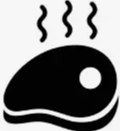
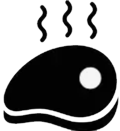
update week 6
aan allerei dingen gewerkt

diff --git a/Week 6/sketch.js b/Week 6/sketch.js
@@ -29,6 +29,9 @@ let showTennisBallImage = false;
 let tennisImageX = [];
 let tennisImageY = [];
 
+let balloonPetX = 600;
+let balloonPetY = 150;
+
 function setup() {
   createCanvas(1255, 550);
 
@@ -114,7 +117,7 @@ function draw() {
 
   // tamagotchi zelf
   strokeWeight(2)
-  balloonpet(100, -125, 205, 239, 250);
+  balloonpet(balloonPetX, balloonPetY, 205, 239, 250);
   balloonmouth()
 
   if (showFoodImage) {
@@ -124,11 +127,12 @@ function draw() {
       foodImageY = mouseY - 25;
     }
     // zorgt ervoor dat zodra het voedsel in aanraking komt met de tamagotchi dat het voedsel verdwijnt
-    let distanceToPet = dist(600, 175, mouseX, mouseY);
+    let distanceToPet = dist(balloonPetX, balloonPetY, mouseX, mouseY);
     if (distanceToPet < 40) {
       showFoodImage = false;
       // de honger bar gaat weer om hoog als het voedsel verdwijnt
       statsWaardes[3] = statsWaardes[3] + 25
+      statsWaardes[1] = statsWaardes[1] + 50
     }
     // foto van voedsel 
     image(aardbeifoto, foodImageX, foodImageY, 50, 50);
@@ -136,27 +140,47 @@ function draw() {
 
   if (showSpongeImage) {
     image(spongebobfoto, mouseX - 35, mouseY - 55, 75, 125);
-    let distanceToPet = dist(600, 175, mouseX, mouseY);
+    let distanceToPet = dist(balloonPetX, balloonPetY, mouseX, mouseY);
     if (distanceToPet < 40) {
       statsWaardes[0] = statsWaardes[0] + 1
     }
-    if (statsWaardes[0] > 100) 
+    if (statsWaardes[0] > 100)
       showSpongeImage = false
   }
-  if (showSleepSpeechBubbleImage){
-    image(sleepspeechbubblefoto,200,-50,550,400);
-    statsWaardes[1] = statsWaardes[1]+1
-    if(statsWaardes[1] >100){
+  if (showSleepSpeechBubbleImage) {
+    image(sleepspeechbubblefoto, balloonPetX - 400, balloonPetY - 250, 550, 400);
+    statsWaardes[1] = statsWaardes[1] + 1
+    if (statsWaardes[1] > 100) {
       showSleepSpeechBubbleImage = false
     }
   }
-  if (showTennisBallImage){
+  if (showTennisBallImage) {
     for (let index = 0; index < tennisImageX.length; index++) {
-      image(tennisballfoto, tennisImageX[index], tennisImageY[index],100,100);
+      image(tennisballfoto, tennisImageX[index], tennisImageY[index], 100, 100);
     }
-    
   }
 
+
+if (tennisImageX.length > 0) {
+  let targetX = tennisImageX[0]; // het x coordinaat van de eerste tennisbal
+  let targetY = tennisImageY[0]; // het y coordinaat van de eerste tennisbal
+  let richtingX = targetX - balloonPetX;
+  let richtingY = targetY - balloonPetY;
+
+  balloonPetX = balloonPetX + richtingX * 0.01;
+  balloonPetY = balloonPetY + richtingY * 0.01;
+
+  // Als de balloonpet de bal aanraakt (oftewel, dichtbij de targetX en targetY komt), verwijder dan de
+  // eerste tennisbal uit de array
+  // en doe de happiness omhoog
+  let distanceToPet = dist(balloonPetX, balloonPetY, targetX, targetY);
+  if (distanceToPet < 50) {
+    statsWaardes[2] = statsWaardes[2] + 25;
+    tennisImageX.shift();
+    tennisImageY.shift();
+    statsWaardes[1] = statsWaardes[1] -25
+  }
+}
 
 }
 function icon(x, y, color) {
@@ -179,33 +203,21 @@ function preload() {
   spongebobfoto = loadImage('spongebob.png');
   sleepspeechbubblefoto = loadImage('sleepspeechbubble.png');
   tennisballfoto = loadImage('tennisball.png');
-  
+
 
 }
 function balloonpet(x, y, v1, v2, v3) {
   fill(v1, v2, v3)
-  circle(500 + x, 300 + y, 150, 150);
-  rect(490 + x, 370 + y, 20, 10);
+  // x 500, y = 300
+  circle(x, y, 150, 150);
+  rect(x - 10, 70 + y, 20, 10);
   fill(175, 133, 0);
-  rect(495 + x, 380 + y, 10, 70);
-  // roteert de ogen
-  push();
-  translate(570, 150);
-  rotate((PI / 6));
-  rectMode(CENTER)
-  fill('black');
-  //rect(500,200,40,10,50);
-  rect(0, 0, 35, 5, 50);
-  pop();
+  rect(x - 5, 80 + y, 10, 70);
 
-  push();
-  translate(630, 150);
-  rotate(-(PI / 6));
-  rectMode(CENTER)
-  fill('black');
-  //rect(500,200,40,10,50);
-  rect(0, 0, 35, 5, 50);
-  pop();
+  strokeWeight(5);
+  line(x - 50, y, x - 10, y + 20);
+  line(x + 50, y, x + 10, y + 20);
+
 }
 function balloonmouth() {
 }
@@ -231,16 +243,16 @@ function mousePressed() {
     if (distanceToMouse2 < 70) {
       showSpongeImage = true
     }
-    let distanceToMouse3 = dist(665, 475,mouseX,mouseY);
+    let distanceToMouse3 = dist(665, 475, mouseX, mouseY);
     if (distanceToMouse3 < 70) {
       showSleepSpeechBubbleImage = true
     }
-    //!!!!!!!!!
-    let distanceToMouse4 = dist(780, 510,mouseX,mouseY);
+
+    let distanceToMouse4 = dist(780, 510, mouseX, mouseY);
     if (distanceToMouse4 < 70) {
-      showTennisBallImage= true
-      tennisImageX.push(random(0,500));
-      tennisImageY.push(random(0,500));
+      showTennisBallImage = true
+      tennisImageX.push(random(0, 500));
+      tennisImageY.push(random(0, 500));
     }
   }
 }

diff --git a/Essenstials/sketch.js b/Essenstials/sketch.js
@@ -1,4 +1,5 @@
  let moonphoto;
+ let steakphoto;
 
 function setup() {
   createCanvas(400, 400);
@@ -7,7 +8,9 @@ function setup() {
 function draw() {
   background(220);
   image(moonphoto,50,50,50,50);
+  image(steakphoto,100,50,50,50);
 }
 function preload(){
 moonphoto = loadImage('maan.png');
+steakphoto = loadImage('steak.png');
 }
